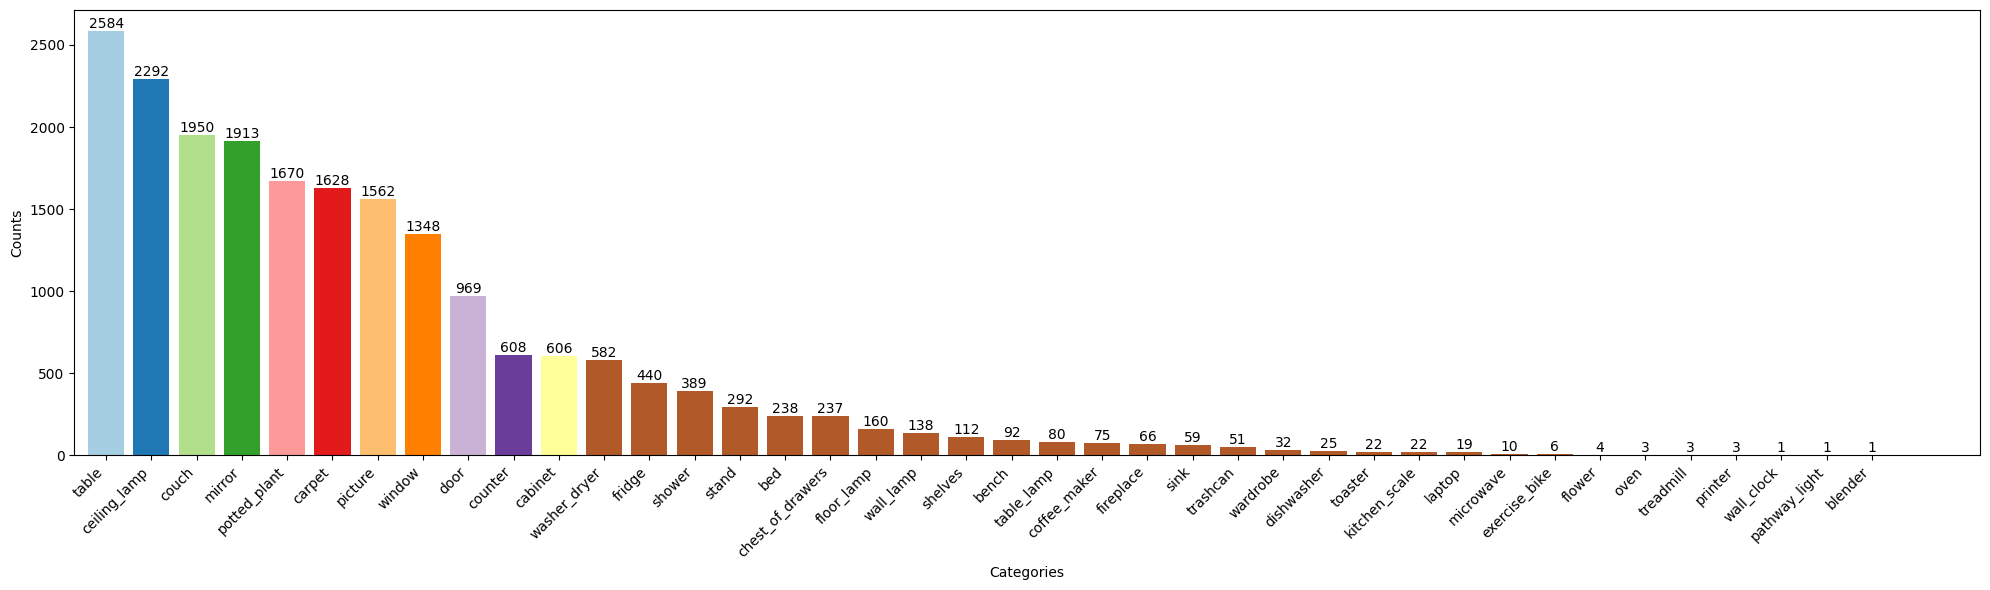
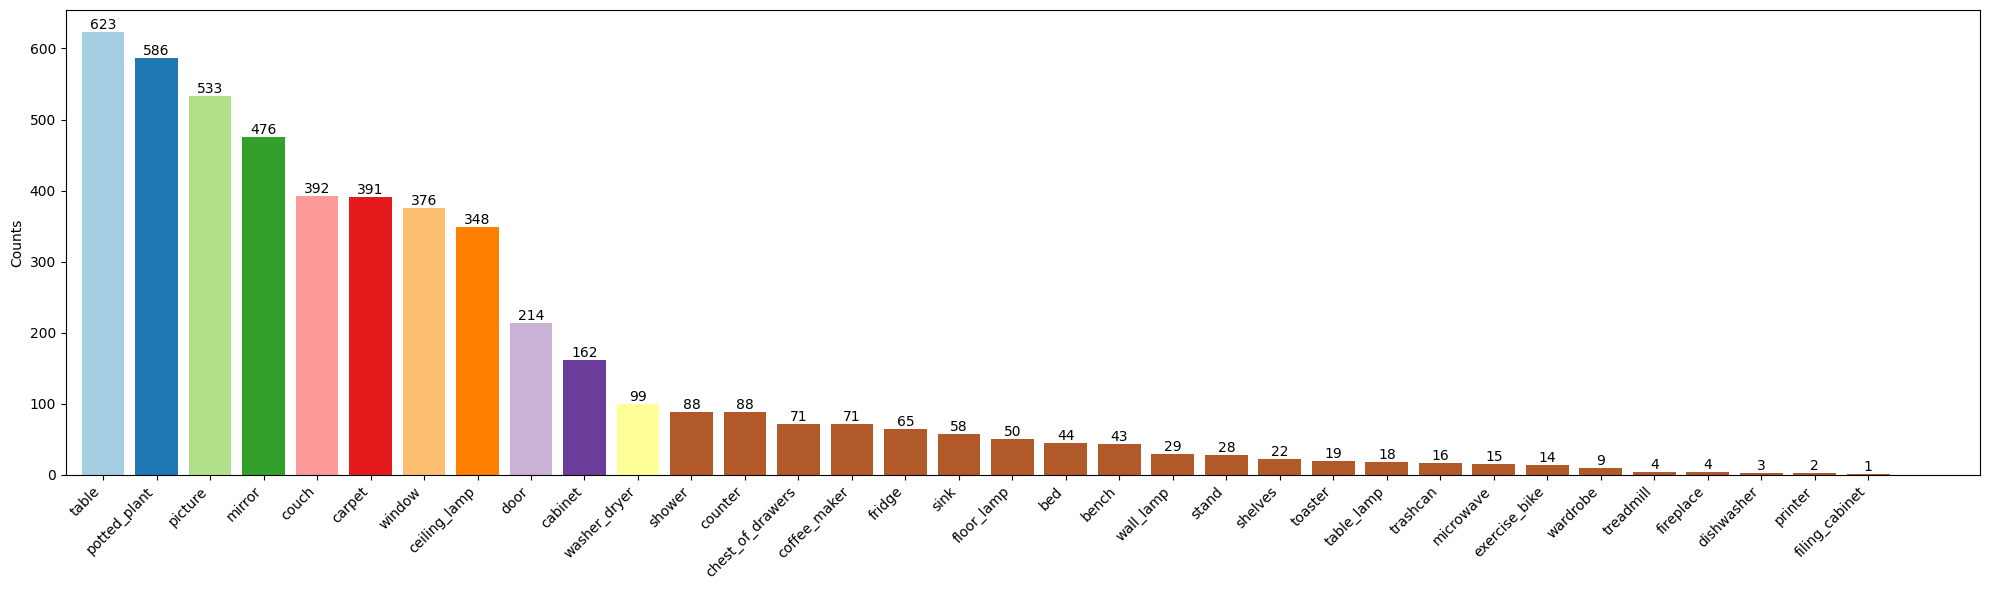
to add description

Changed region(s): [[0.0, 0.0305, 0.9663, 0.9763], [0.4987, 0.9458, 0.5299, 0.9763]]

diff --git a/README.md b/README.md
@@ -8,3 +8,26 @@ The bar charts of destination object counts in train split
 
 The bar charts of destination object counts in test split
 ![](figs/destination_object_bar_chart_test.png)
+
+### 1.2 Graspable Object
+The bar charts of graspable object counts in train split
+![](figs/grasp_object_bar_chart_train.png)
+
+The bar charts of graspable object counts in test split
+![](figs/grasp_object_bar_chart_test.png)
+
+### 1.3 Action
+The bar charts of action counts in train split
+![](figs/action_bar_chart_train.png)
+
+The bar charts of action counts in test split
+![](figs/action_bar_chart_test.png)
+
+### 1.4 WordCloud
+<!-- ![](figs/wordcloud_destination_object.png)![](figs/wordcloud_action.png) -->
+<figure class="half">
+    <img src="figs/wordcloud_destination_object.png" width="500"/>
+    <img src="figs/wordcloud_action.png" width="500"/>
+</figure>
+### 1.5 Distribution
+![](figs/distribution.png)
